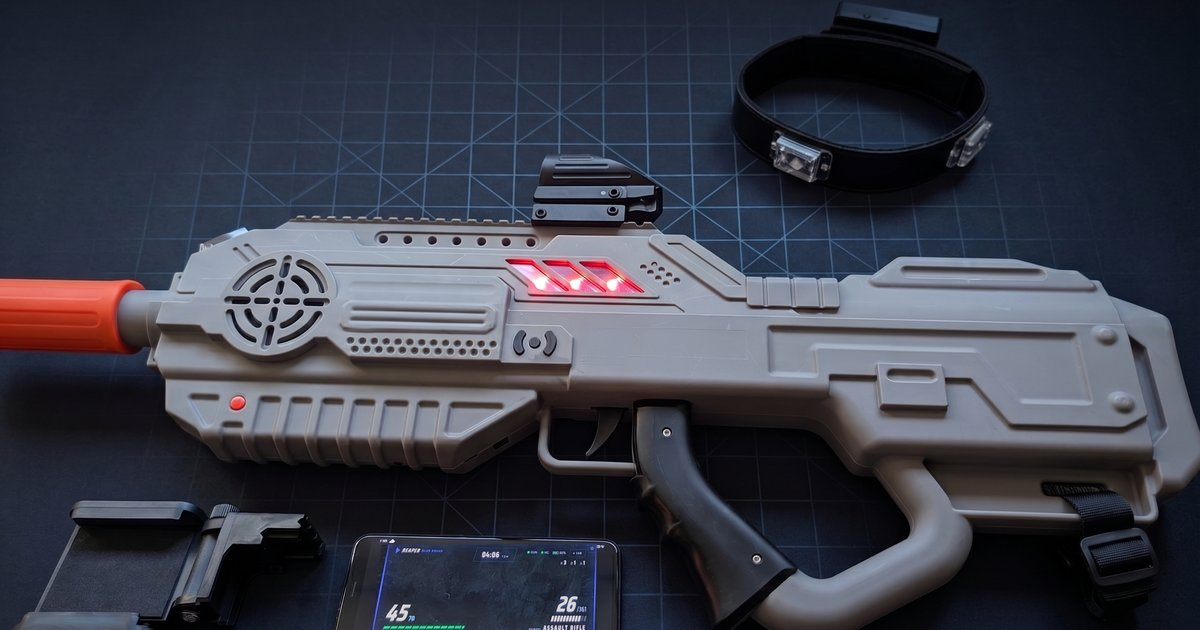
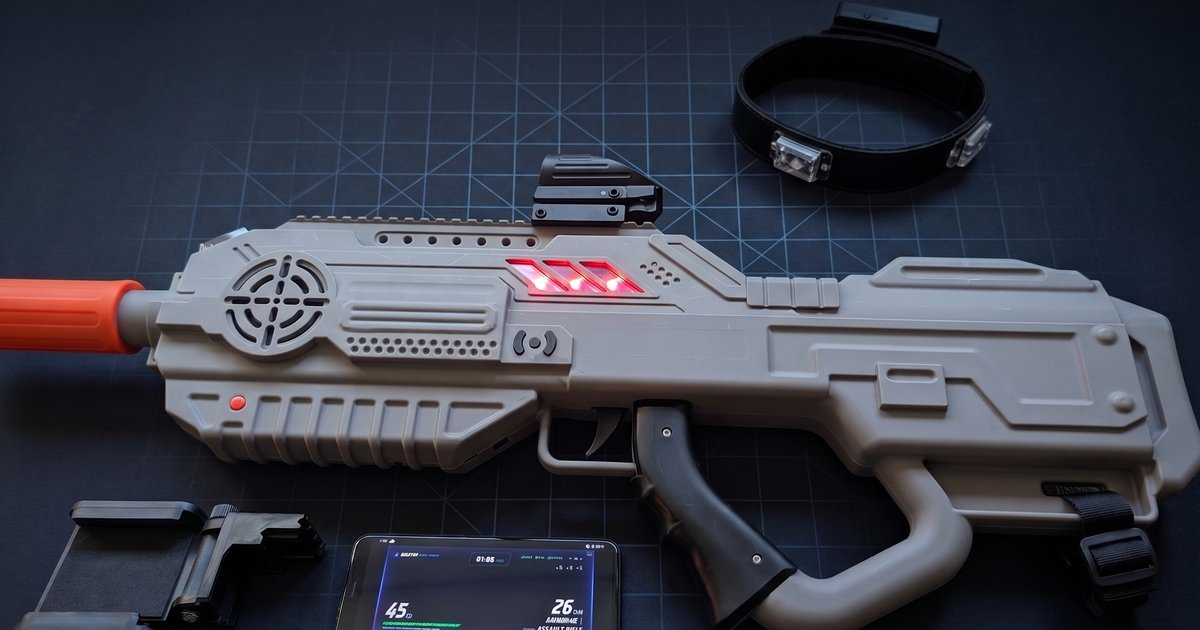
The hero is Tony's third render, phone untouched, emblem cloned off
Claude-Session: https://claude.ai/code/session_012CAfaDqjwKvhUWFJAy6Lsd

Changed region(s): [[0.3083, 0.8444, 0.5242, 1.0], [0.3083, 0.9349, 0.4008, 1.0]]

diff --git a/docs/experiment-log/2026-09.md b/docs/experiment-log/2026-09.md
@@ -4579,6 +4579,10 @@ in from the original, the invented logo cloned off, the watermark corner cropped
 section's copy now renders whole (only a photo that opens a section is a backdrop), which gave the landing a
 "The kit" section with the cleaned flat lay (same treatment) and a real `og.jpg` share card off it.
 
+**Hero, settled:** Tony's third Gemini render, prompted with the screen declared off-limits, kept the real HUD
+legible, so the phone is untouched this time (Tony: "leave the phone alone"); only the invented emblem on the
+receiver is cloned off and the frame cropped to the slot. The kit photo keeps Gemini's phone too, same rule.
+
 **Photos landed the same afternoon.** Tony shot 20 frames on the sofa (picks 133902 hero, 134237 grenade, 134144
 flat lay); Gemini swapped the backgrounds. Two artefacts in the hero: the phone's HUD was regenerated as garbled
 text ("45TB", "26MIFE") and a "CASTLE" logo was invented on the receiver. Fix: the real `hud-live.jpg` frame
